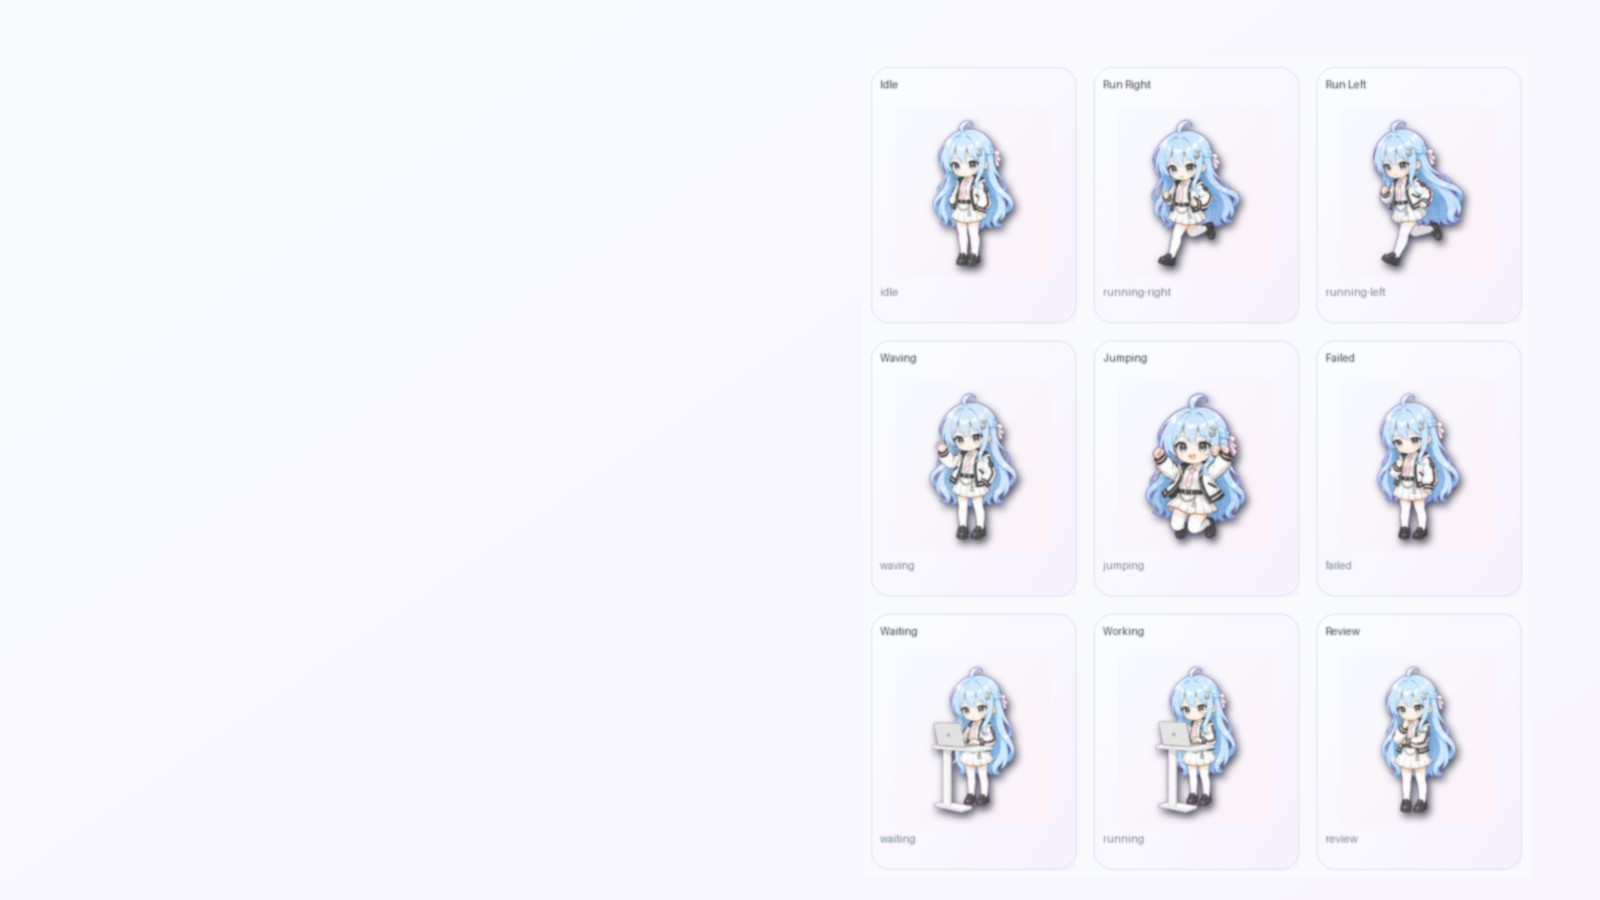
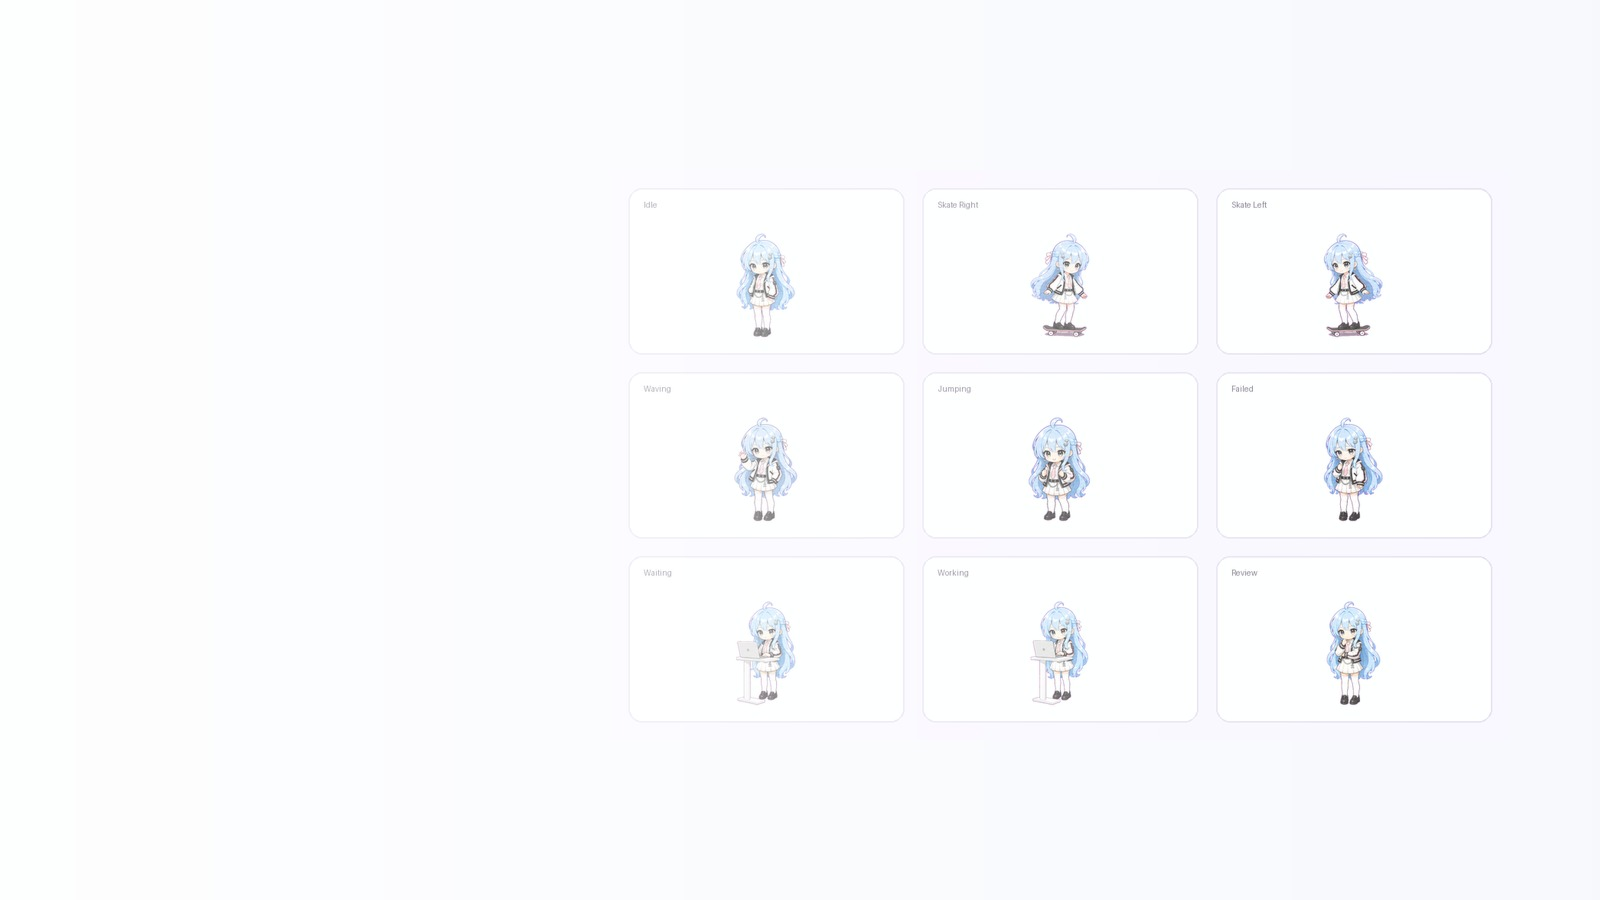
Update Lanxi skateboard movement showcase

diff --git a/docs/index.zh-CN.html b/docs/index.zh-CN.html
@@ -512,12 +512,12 @@
             <span>待机</span>
           </figure>
           <figure class="gif-card">
-            <img src="assets/lanxi-running-right.gif" alt="Lanxi running right animation preview" />
-            <span>向右移动</span>
+            <img src="assets/lanxi-running-right.gif" alt="Lanxi skateboard glide right animation preview" />
+            <span>向右滑板</span>
           </figure>
           <figure class="gif-card">
-            <img src="assets/lanxi-running-left.gif" alt="Lanxi running left animation preview" />
-            <span>向左移动</span>
+            <img src="assets/lanxi-running-left.gif" alt="Lanxi skateboard glide left animation preview" />
+            <span>向左滑板</span>
           </figure>
           <figure class="gif-card">
             <img src="assets/lanxi-waving.gif" alt="Lanxi waving animation preview" />
@@ -574,8 +574,8 @@
           </div>
           <div class="state-list" aria-label="Codex pet states">
             <div class="state-pill"><strong class="mono">0</strong><span><b>idle</b> 默认待机状态</span></div>
-            <div class="state-pill"><strong class="mono">1</strong><span><b>running-right</b> 向右拖拽或移动</span></div>
-            <div class="state-pill"><strong class="mono">2</strong><span><b>running-left</b> 向左拖拽或移动</span></div>
+            <div class="state-pill"><strong class="mono">1</strong><span><b>running-right</b> 向右滑板移动</span></div>
+            <div class="state-pill"><strong class="mono">2</strong><span><b>running-left</b> 向左滑板移动</span></div>
             <div class="state-pill"><strong class="mono">3</strong><span><b>waving</b> 打招呼</span></div>
             <div class="state-pill"><strong class="mono">4</strong><span><b>jumping</b> 跳跃或开心反馈</span></div>
             <div class="state-pill"><strong class="mono">5</strong><span><b>failed</b> 任务失败或可恢复错误</span></div>

diff --git a/docs/index.html b/docs/index.html
@@ -512,12 +512,12 @@
             <span>Idle</span>
           </figure>
           <figure class="gif-card">
-            <img src="assets/lanxi-running-right.gif" alt="Lanxi running right animation preview" />
-            <span>Run Right</span>
+            <img src="assets/lanxi-running-right.gif" alt="Lanxi skateboard glide right animation preview" />
+            <span>Skate Right</span>
           </figure>
           <figure class="gif-card">
-            <img src="assets/lanxi-running-left.gif" alt="Lanxi running left animation preview" />
-            <span>Run Left</span>
+            <img src="assets/lanxi-running-left.gif" alt="Lanxi skateboard glide left animation preview" />
+            <span>Skate Left</span>
           </figure>
           <figure class="gif-card">
             <img src="assets/lanxi-waving.gif" alt="Lanxi waving animation preview" />
@@ -575,8 +575,8 @@
           </div>
           <div class="state-list" aria-label="Codex pet states">
             <div class="state-pill"><strong class="mono">0</strong><span><b>idle</b> default calm state</span></div>
-            <div class="state-pill"><strong class="mono">1</strong><span><b>running-right</b> dragged or moving right</span></div>
-            <div class="state-pill"><strong class="mono">2</strong><span><b>running-left</b> dragged or moving left</span></div>
+            <div class="state-pill"><strong class="mono">1</strong><span><b>running-right</b> skateboard glide right</span></div>
+            <div class="state-pill"><strong class="mono">2</strong><span><b>running-left</b> skateboard glide left</span></div>
             <div class="state-pill"><strong class="mono">3</strong><span><b>waving</b> greeting</span></div>
             <div class="state-pill"><strong class="mono">4</strong><span><b>jumping</b> upbeat jump</span></div>
             <div class="state-pill"><strong class="mono">5</strong><span><b>failed</b> task failed or recoverable error</span></div>

diff --git a/docs/CODEX_PET_CREATION_GUIDE.md b/docs/CODEX_PET_CREATION_GUIDE.md
@@ -120,8 +120,8 @@ Example Lanxi state plan:
 | State | Meaning | Lanxi Direction |
 | --- | --- | --- |
 | `idle` | default calm state | relaxed standing, tiny breathing/blink |
-| `running-right` | dragged/moving right | compact rightward dancer-run |
-| `running-left` | dragged/moving left | compact leftward dancer-run |
+| `running-right` | dragged/moving right | rightward skateboard glide |
+| `running-left` | dragged/moving left | leftward skateboard glide |
 | `waving` | greeting | hand wave, no wave marks |
 | `jumping` | small energetic hop | light hip-hop bounce |
 | `failed` | task failed | disappointed but motivated |
@@ -132,7 +132,7 @@ Example Lanxi state plan:
 Avoid semantic confusion:
 
 - `running` is not literal foot-running. It means task processing.
-- `running-right` and `running-left` are directional movement states.
+- `running-right` and `running-left` are directional movement states. They do not have to be literal running; a skateboard glide, hover, tiny dance step, or other clear directional action can work better for complex characters.
 - `waiting` should not duplicate `running`; make it a rest, stretch, or expectant pose.
 
 ## 6. Generate State References Before Animation Rows
@@ -346,18 +346,18 @@ More frames are not always better.
 - higher risk of frame bleed
 - more chances for anatomy drift
 
-For Lanxi, the 4-frame running-right test was technically cleaner first. The 8-frame version needed multiple iterations and component cleanup.
+For Lanxi, literal running caused repeated anatomy drift, accessory drift, and skirt/leg ambiguity. The final directional movement uses an 8-frame skateboard glide instead, with very stable lower-body motion.
 
 Recommended strategy:
 
-1. Generate a 4-frame test.
+1. Generate a 4-frame or 6-frame test.
 2. Validate style, pose, anatomy, and cleanup.
 3. Only then expand to 8 frames.
-4. If 8 frames keeps failing, use 4 frames for that row.
+4. If literal running keeps failing, change the action design instead of forcing it. A skateboard, hover, or compact glide can preserve the character better.
 
 ## 14. Mirror Only When It Is Semantically Safe
 
-Mirroring `running-right` to make `running-left` sounds tempting, but it can break identity.
+Mirroring one directional row to make the other sounds tempting, but it can break identity.
 
 For Lanxi, mirroring can flip:
 
@@ -366,7 +366,7 @@ For Lanxi, mirroring can flip:
 - accessory placement
 - hairstyle asymmetry
 
-If side-specific identity matters, generate `running-left` separately. If the character is symmetric, mirroring may be acceptable after visual inspection.
+If side-specific identity matters, generate both directions separately. If the character is symmetric enough at pet size, mirroring may be acceptable after visual inspection. Lanxi's final skateboard row accepts mirroring because the motion quality mattered more than tiny side-specific accessory placement in the directional drag state.
 
 ## 15. Keep A Clean Project Structure
 
@@ -416,8 +416,8 @@ Before building the final `spritesheet.webp`, check every row:
 
 For animation rows, also check:
 
-- running direction is correct
-- gait alternates naturally
+- directional movement reads correctly
+- the motion loop feels stable and intentional
 - no anatomy artifacts
 - no speed lines or dust
 - no props suddenly appearing or disappearing
@@ -461,14 +461,19 @@ The biggest lessons from Lanxi:
 - Keep versioned outputs so good ideas are not lost.
 - Write down character rules as soon as the design is approved.
 
-## 19. What Remains For Lanxi
+## 19. Lanxi Current Status
 
-Current remaining work:
+Lanxi now has a complete draft package:
 
-- finish reviewing `running-left`
-- generate or repair the other full animation rows
-- compose a full 9-row Codex spritesheet
-- validate `spritesheet.webp`
-- create final `pet.json`
-- produce final contact sheet and previews
-- update this README after the final package is ready
+- a validated 9-row `spritesheet.webp`
+- `pet.json`
+- curated row strips under `examples/lanxi/rows/`
+- English and Chinese README files
+- GitHub Pages showcase assets
+
+Remaining work is polish and release preparation:
+
+- observe the installed pet inside Codex
+- adjust any state that feels off in real use
+- keep only curated assets in the public release
+- move experiments and debug files to ignored legacy/debug folders

diff --git a/docs/ROADMAP.md b/docs/ROADMAP.md
@@ -13,5 +13,7 @@
 - Improve magenta edge decontamination. The current output is usable, but some rows still show a slight magenta halo after chroma removal.
 - Add a contact-sheet generator as a reusable script.
 - Add an installer script for copying a finished package into `~/.codex/pets/<pet-id>` with backup.
-- Add a Chinese `README.zh-CN.md` if the project becomes public-facing for a broader Chinese audience.
-
+- Add a motion-design guide for `running-right` / `running-left`. Literal running is hard for image models because legs, skirts, accessories, and frame continuity can drift. The guide should include human-readable gait phases, compact stride limits, and fallback actions such as skateboard glides, hover motion, or tiny dance steps.
+- Support two-character pets. This needs explicit layout rules for shared center of mass, spacing between characters, synchronized vs. alternating actions, and stricter frame-boundary checks so one character does not bleed into the next slot.
+- Add an external image-generation prompt pack. Codex should be able to produce copy-paste prompts for tools such as Kling, Jimeng, or other image/video generators, so users can spend fewer Codex tokens while still creating 8-frame strips that follow the project's spacing, chroma, identity, and `192x208` cell requirements.
+- Add provider-specific prompt templates after more testing. Each template should include a short character identity lock, state action plan, frame count, large gutters, flat chroma background, no shadows/glows, and a checklist for rejecting bad strips before importing them into the cutter.

diff --git a/templates/state-action-plan.template.md b/templates/state-action-plan.template.md
@@ -32,8 +32,8 @@ Forbidden changes:
 | Row 行 | State 状态 | Meaning 含义 | Suggested Default Action 默认动作建议 | User Custom Action 用户自定义动作 | Approved 是否确认 |
 | --- | --- | --- | --- | --- | --- |
 | 0 | `idle` | Default calm state / 默认待机 | Subtle breathing, blink, tiny hair sway / 轻微呼吸、眨眼、头发小幅摆动 |  | no |
-| 1 | `running-right` | Drag/move right / 向右拖拽或移动 | Compact right-facing run or energetic step / 紧凑的向右跑步或活力小步伐 |  | no |
-| 2 | `running-left` | Drag/move left / 向左拖拽或移动 | Compact left-facing run or energetic step / 紧凑的向左跑步或活力小步伐 |  | no |
+| 1 | `running-right` | Drag/move right / 向右拖拽或移动 | Clear rightward movement, such as a small run, skateboard glide, hover, or dance step / 清晰向右移动，比如小跑、滑板、悬浮或舞步 |  | no |
+| 2 | `running-left` | Drag/move left / 向左拖拽或移动 | Clear leftward movement, such as a small run, skateboard glide, hover, or dance step / 清晰向左移动，比如小跑、滑板、悬浮或舞步 |  | no |
 | 3 | `waving` | Greeting / 打招呼 | Hand wave, no floating wave marks / 挥手，不加漂浮波纹或文字 |  | no |
 | 4 | `jumping` | Upbeat jump / 跳跃或开心反馈 | Small hop or bounce, full body visible / 小幅跳跃，全身始终可见 |  | no |
 | 5 | `failed` | Task failed/error / 任务失败或错误 | Slightly disappointed but recoverable reaction / 有点沮丧但仍有动力继续 |  | no |

diff --git a/skill/SKILL.md b/skill/SKILL.md
@@ -118,6 +118,6 @@ python3 scripts/validate_pet_package.py --package-dir <package-dir>
 ## Important Distinctions
 
 - `running` means task processing, not literal movement.
-- `running-right` and `running-left` are directional movement states.
+- `running-right` and `running-left` are directional movement states. They do not have to be literal running; a skateboard glide, hover, tiny dance step, or other compact directional action may be better for complex characters.
 - `waiting`, `running`, and `review` should have distinct actions.
 - Avoid detached effects, shadows, glows, text, labels, UI, and symbols unless intentionally part of the pet and cleanly cuttable.

diff --git a/README.md b/README.md
@@ -154,7 +154,7 @@ oc-codex-pet-maker/
 
 ## Lanxi Example
 
-Lanxi is the example pet used to develop this workflow. She is a cute-cool chibi virtual avatar with long aqua hair, school-uniform street-dance styling, and a small laptop/standing-desk workflow for `waiting` and `running` states.
+Lanxi is the example pet used to develop this workflow. She is a cute-cool chibi virtual avatar with long aqua hair, school-uniform street-dance styling, skateboard glide animations for `running-left` / `running-right`, and a small laptop/standing-desk workflow for `waiting` and `running` states.
 
 The example includes:
 

diff --git a/README.zh-CN.md b/README.zh-CN.md
@@ -154,7 +154,7 @@ oc-codex-pet-maker/
 
 ## Lanxi 示例
 
-Lanxi 是这个流程的示例宠物。她是一个可爱但有点酷的 Q 版虚拟形象：浅蓝长发、白色校服和街舞风外套，并在 `waiting` 和 `running` 状态里使用高桌和电脑。
+Lanxi 是这个流程的示例宠物。她是一个可爱但有点酷的 Q 版虚拟形象：浅蓝长发、白色校服和街舞风外套，`running-left` / `running-right` 使用滑板移动，并在 `waiting` 和 `running` 状态里使用高桌和电脑。
 
 示例包含：
 
